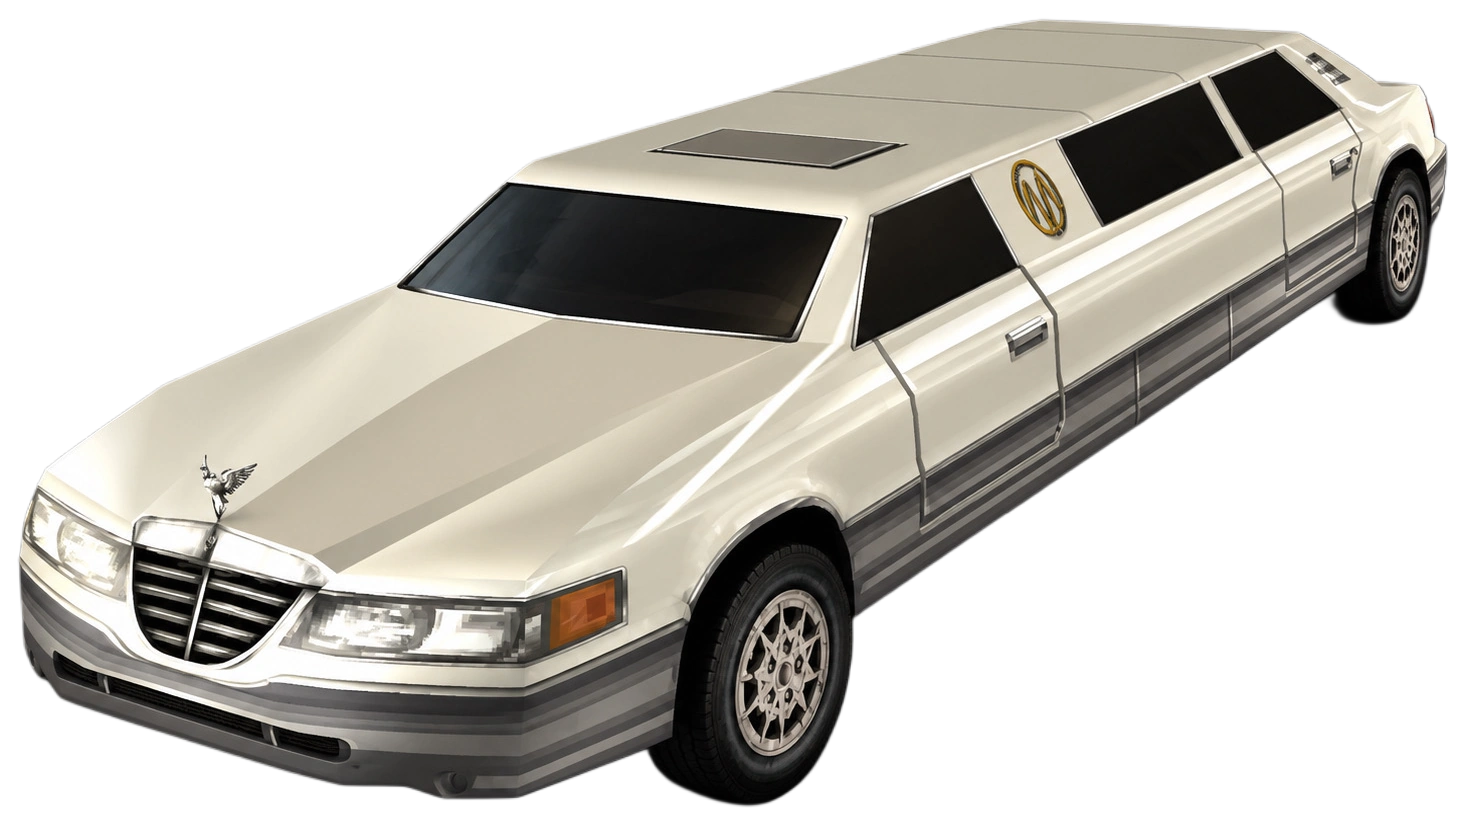
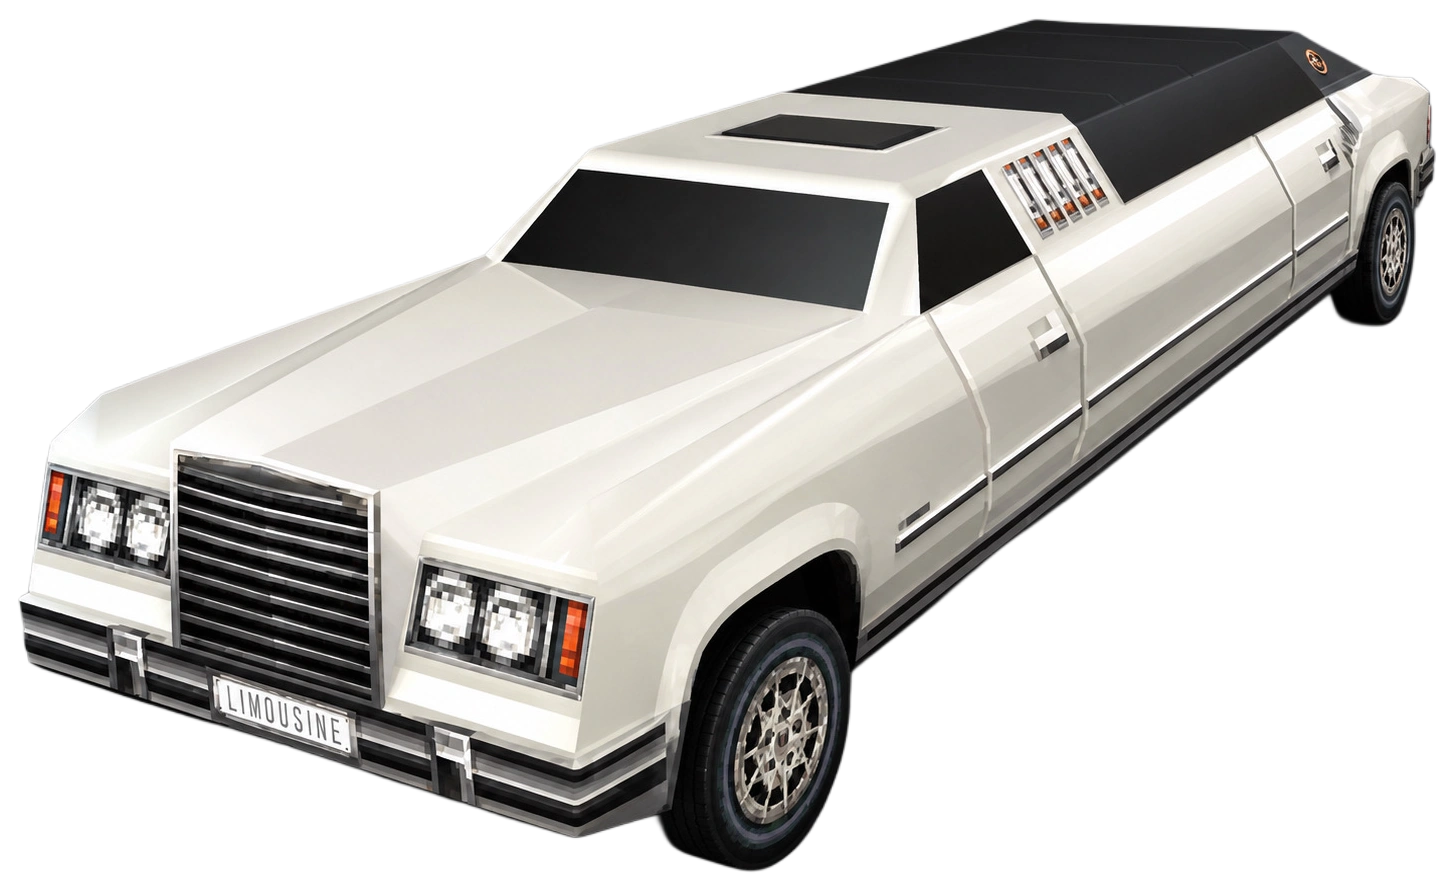
new

diff --git a/script.js b/script.js
@@ -52,7 +52,7 @@
     <p><strong>Ported and Developed by: Ameer_007x</strong></p>`;
 
   const importantAnnouncementInformation = `
-    <p>I would like to clarify a few things regarding the original base project. Neither I nor anybody created the core Unity project. All credit, effort, and ownership of the original foundation belong to the original developer, Stephen. I want to express my sincere gratitude and appreciation to him for creating this masterpiece and bringing a forgotten game back to life. His contributions are fully recognized and credited in the Credits section.</p>
+    <p>I would like to clarify a few things regarding the original base project. Neither I nor anybody created the core Unity project. All credit, effort, and ownership of the original foundation belong to the original developer, Stefan Vranjes. I want to express my sincere gratitude and appreciation to him for creating this masterpiece and bringing a forgotten game back to life. His contributions are fully recognized and credited in the Credits section.</p>
 
     <p>As for the additions made after the original developer departed, those are entirely my work. This includes integrating classic vehicles from the original game, adding TDM and LTS game modes, alongside several major improvements and features that the community has long wished for. All this hard work was done solely to make the project better and more enjoyable for everyone—a simple word of thanks is more than enough.</p>
 
